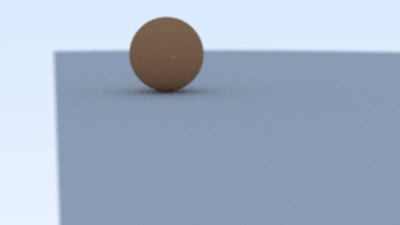
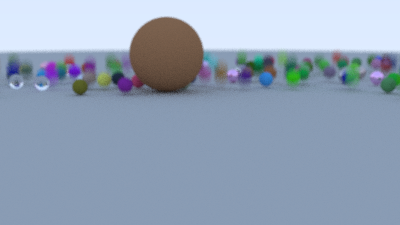
Fixed a new mistake

Changed region(s): [[0.0, 0.2178, 0.39, 1.0], [0.45, 0.2178, 1.0, 0.4356]]

diff --git a/app/src/render.rs b/app/src/render.rs
@@ -35,7 +35,7 @@ pub fn render() {
         ground_mat,
     ));
 
-    /*for a in -11..11 {
+    for a in -11..11 {
         for b in -11..11 {
             let center = Point3::new(
                 a as f64 + 0.9 * rng.gen::<f64>(),
@@ -73,21 +73,20 @@ pub fn render() {
                 }
             }
         }
-    }*/
+    }
 
-    /*let material1 = Material::Dielectric(1.5);
-    world.add(Sphere::stationary(Point3::new(0.0, 1.0, 0.0), 1.0, material1));*/
+    let material1 = Material::Dielectric(1.5);
+    world.add(Sphere::stationary(Point3::new(0.0, 1.0, 0.0), 1.0, material1));
 
     let material2 = Material::Lambertian(Vector3::new(0.4, 0.2, 0.1));
     world.add(Sphere::stationary(Point3::new(-4.0, 1.0, 0.0), 1.0, material2));
 
-    /*let material3 = Material::Metal(Vector3::new(0.7, 0.6, 0.5), 0.0);
-    world.add(Sphere::stationary(Point3::new(4.0, 1.0, 0.0), 1.0, material3));*/
+    let material3 = Material::Metal(Vector3::new(0.7, 0.6, 0.5), 0.0);
+    world.add(Sphere::stationary(Point3::new(4.0, 1.0, 0.0), 1.0, material3));
 
     let mut world2 = World::empty();
-    let src_objects = world.objects();
-    dbg!(src_objects[0].bounding_box());
-    world2.add(BVHNode::new(src_objects, 0, src_objects.len()));
+    let objects = world.objects();
+    world2.add(BVHNode::new(objects, 0, objects.len()));
 
     let renderer = Renderer::new(aspect_ratio, image_width, camera);
     let img = renderer.render_parallel_image(&world2);

diff --git a/src/aabb.rs b/src/aabb.rs
@@ -36,16 +36,16 @@ impl AABB {
     pub fn from_boxes(box0: &AABB, box1: &AABB) -> Self {
         Self {
             x: RealInterval {
-                min: box0.x.min.min(box0.x.min),
-                max: box1.x.max.max(box1.x.max),
+                min: box0.x.min.min(box1.x.min),
+                max: box0.x.max.max(box1.x.max),
             },
             y: RealInterval {
-                min: box0.y.min.min(box0.y.min),
-                max: box1.y.max.max(box1.y.max),
+                min: box0.y.min.min(box1.y.min),
+                max: box0.y.max.max(box1.y.max),
             },
             z: RealInterval {
-                min: box0.z.min.min(box0.z.min),
-                max: box1.z.max.max(box1.z.max),
+                min: box0.z.min.min(box1.z.min),
+                max: box0.z.max.max(box1.z.max),
             },
         }
     }

diff --git a/src/bvh.rs b/src/bvh.rs
@@ -14,8 +14,7 @@ pub struct BVHNode {
 }
 
 impl BVHNode {
-    pub fn new(src_objects: &mut Vec<Box<dyn Hittable + Sync>>, start: usize, end: usize) -> Self {
-        let objects = src_objects;
+    pub fn new(objects: &mut Vec<Box<dyn Hittable + Sync>>, start: usize, end: usize) -> Self {
         let axis = thread_rng().gen_range(0..3);
 
         let object_span = end - start;
